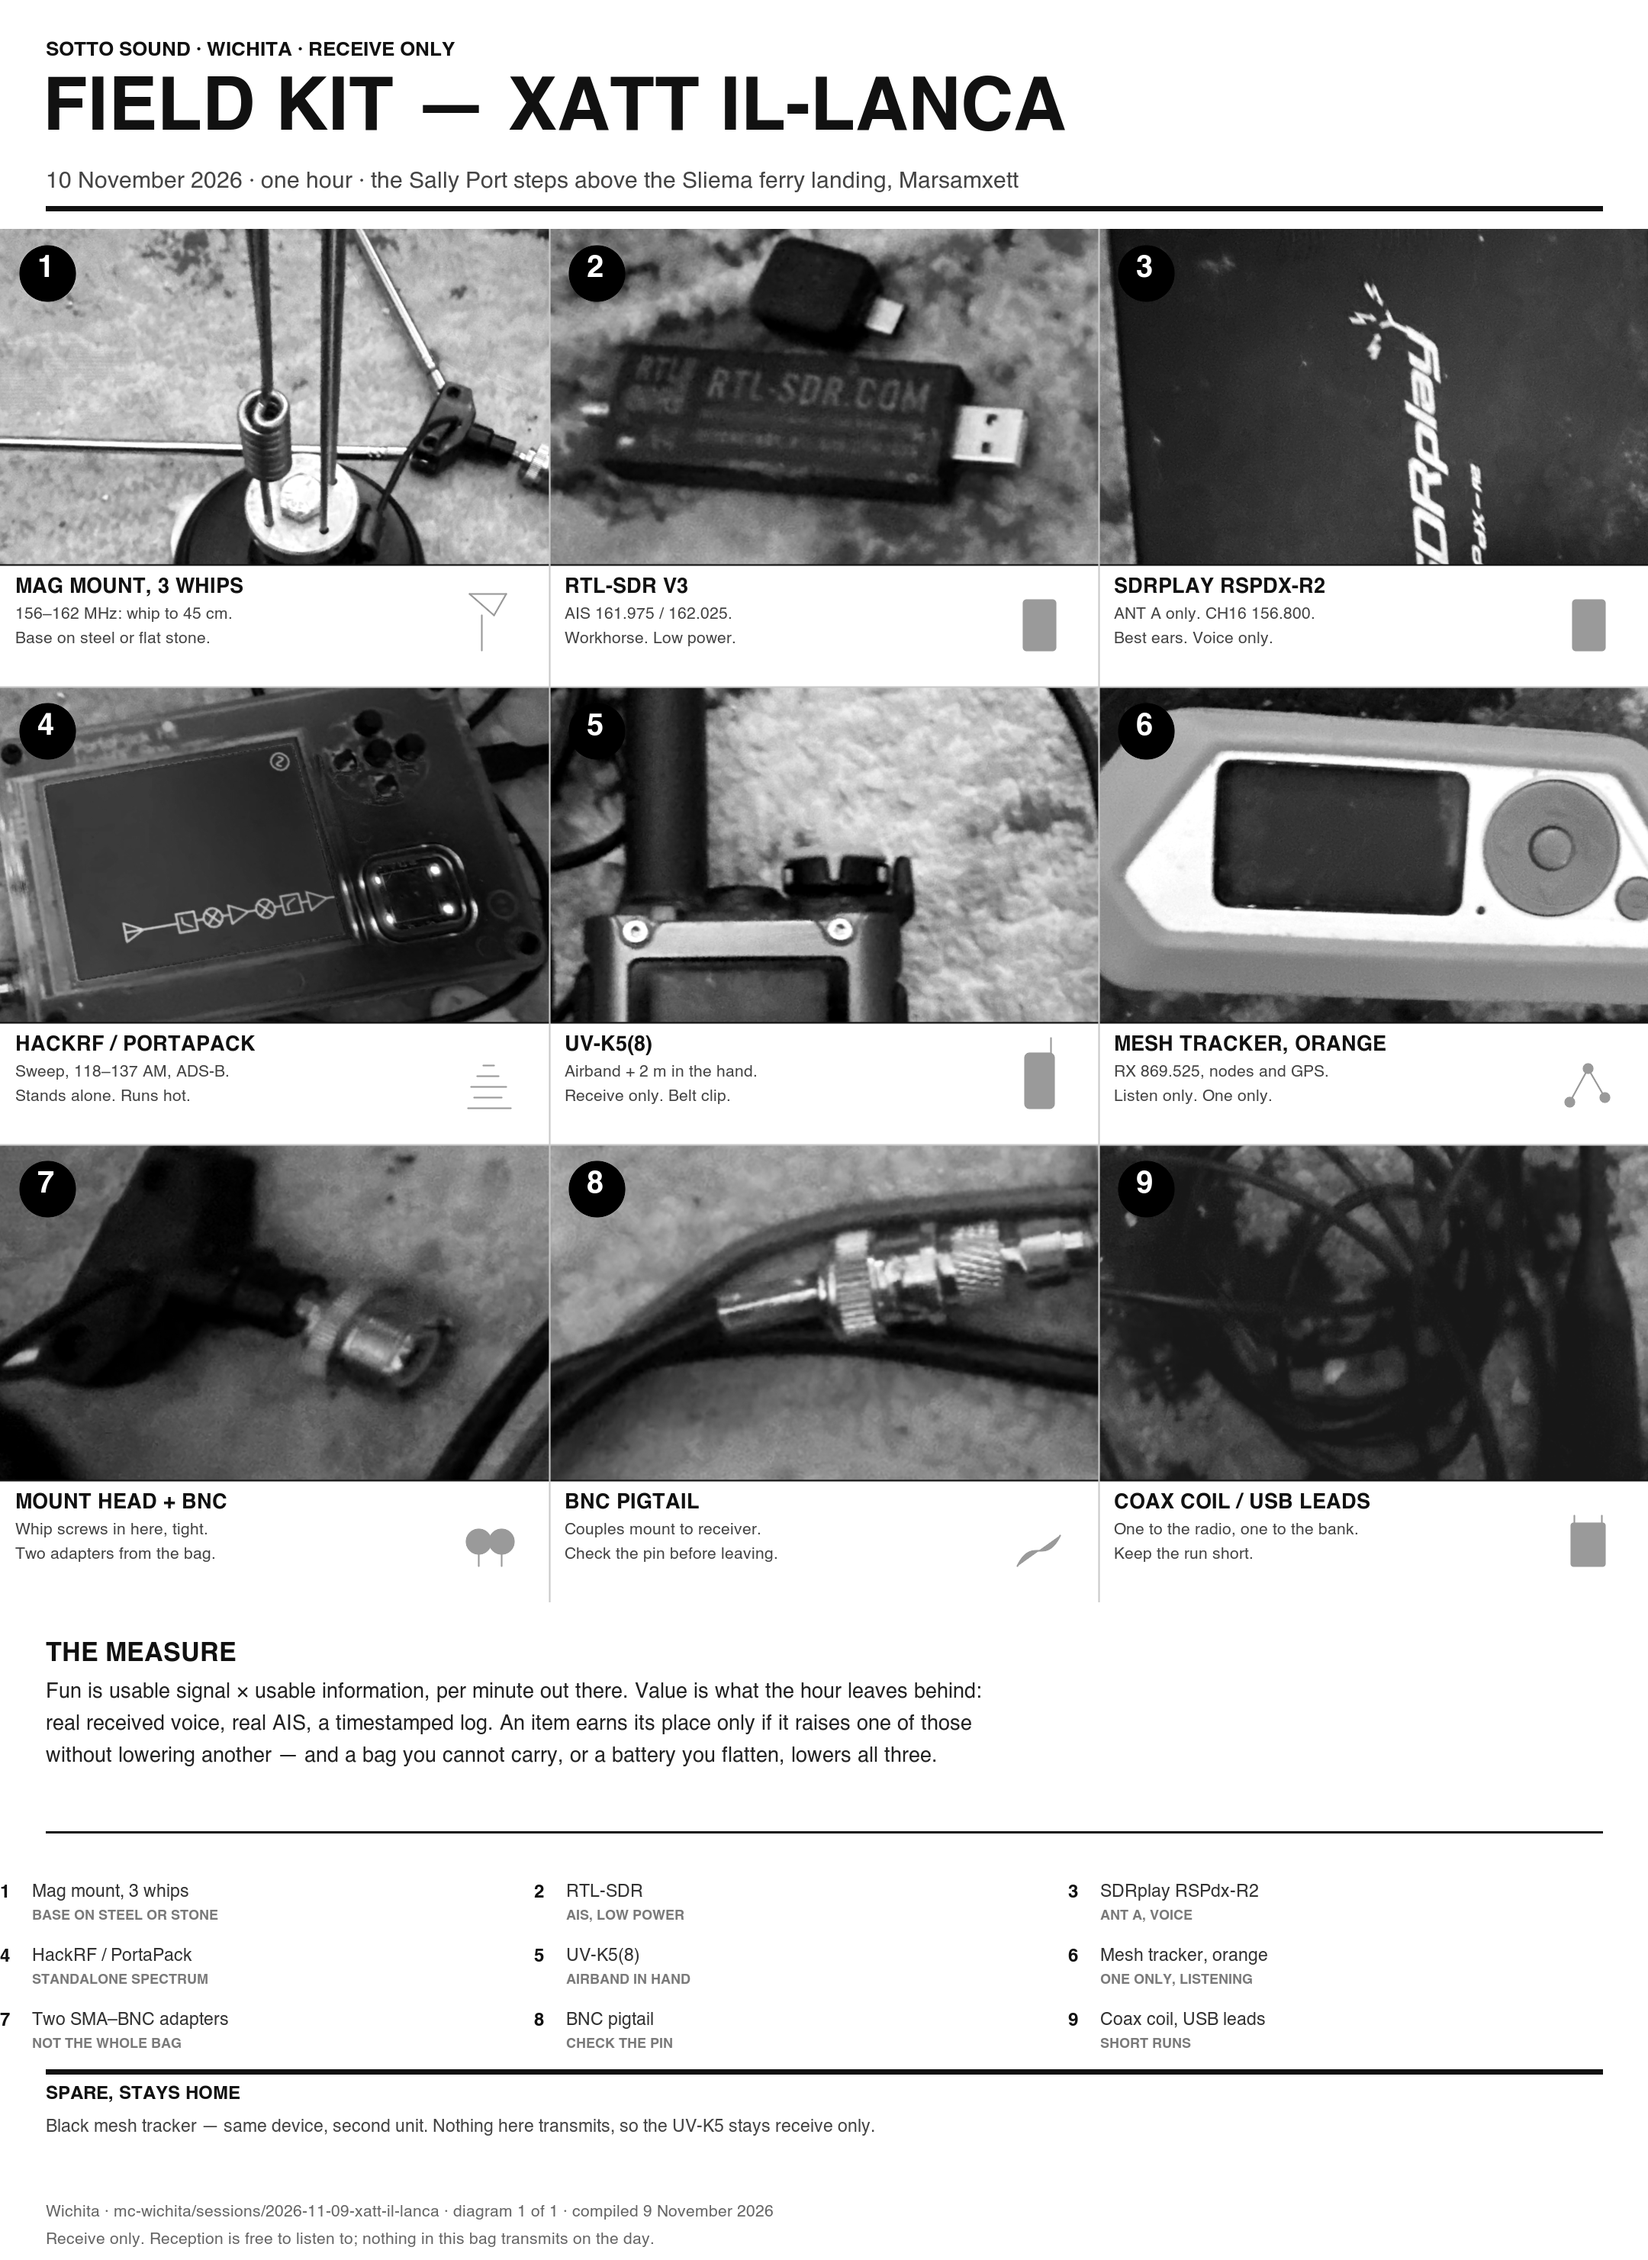
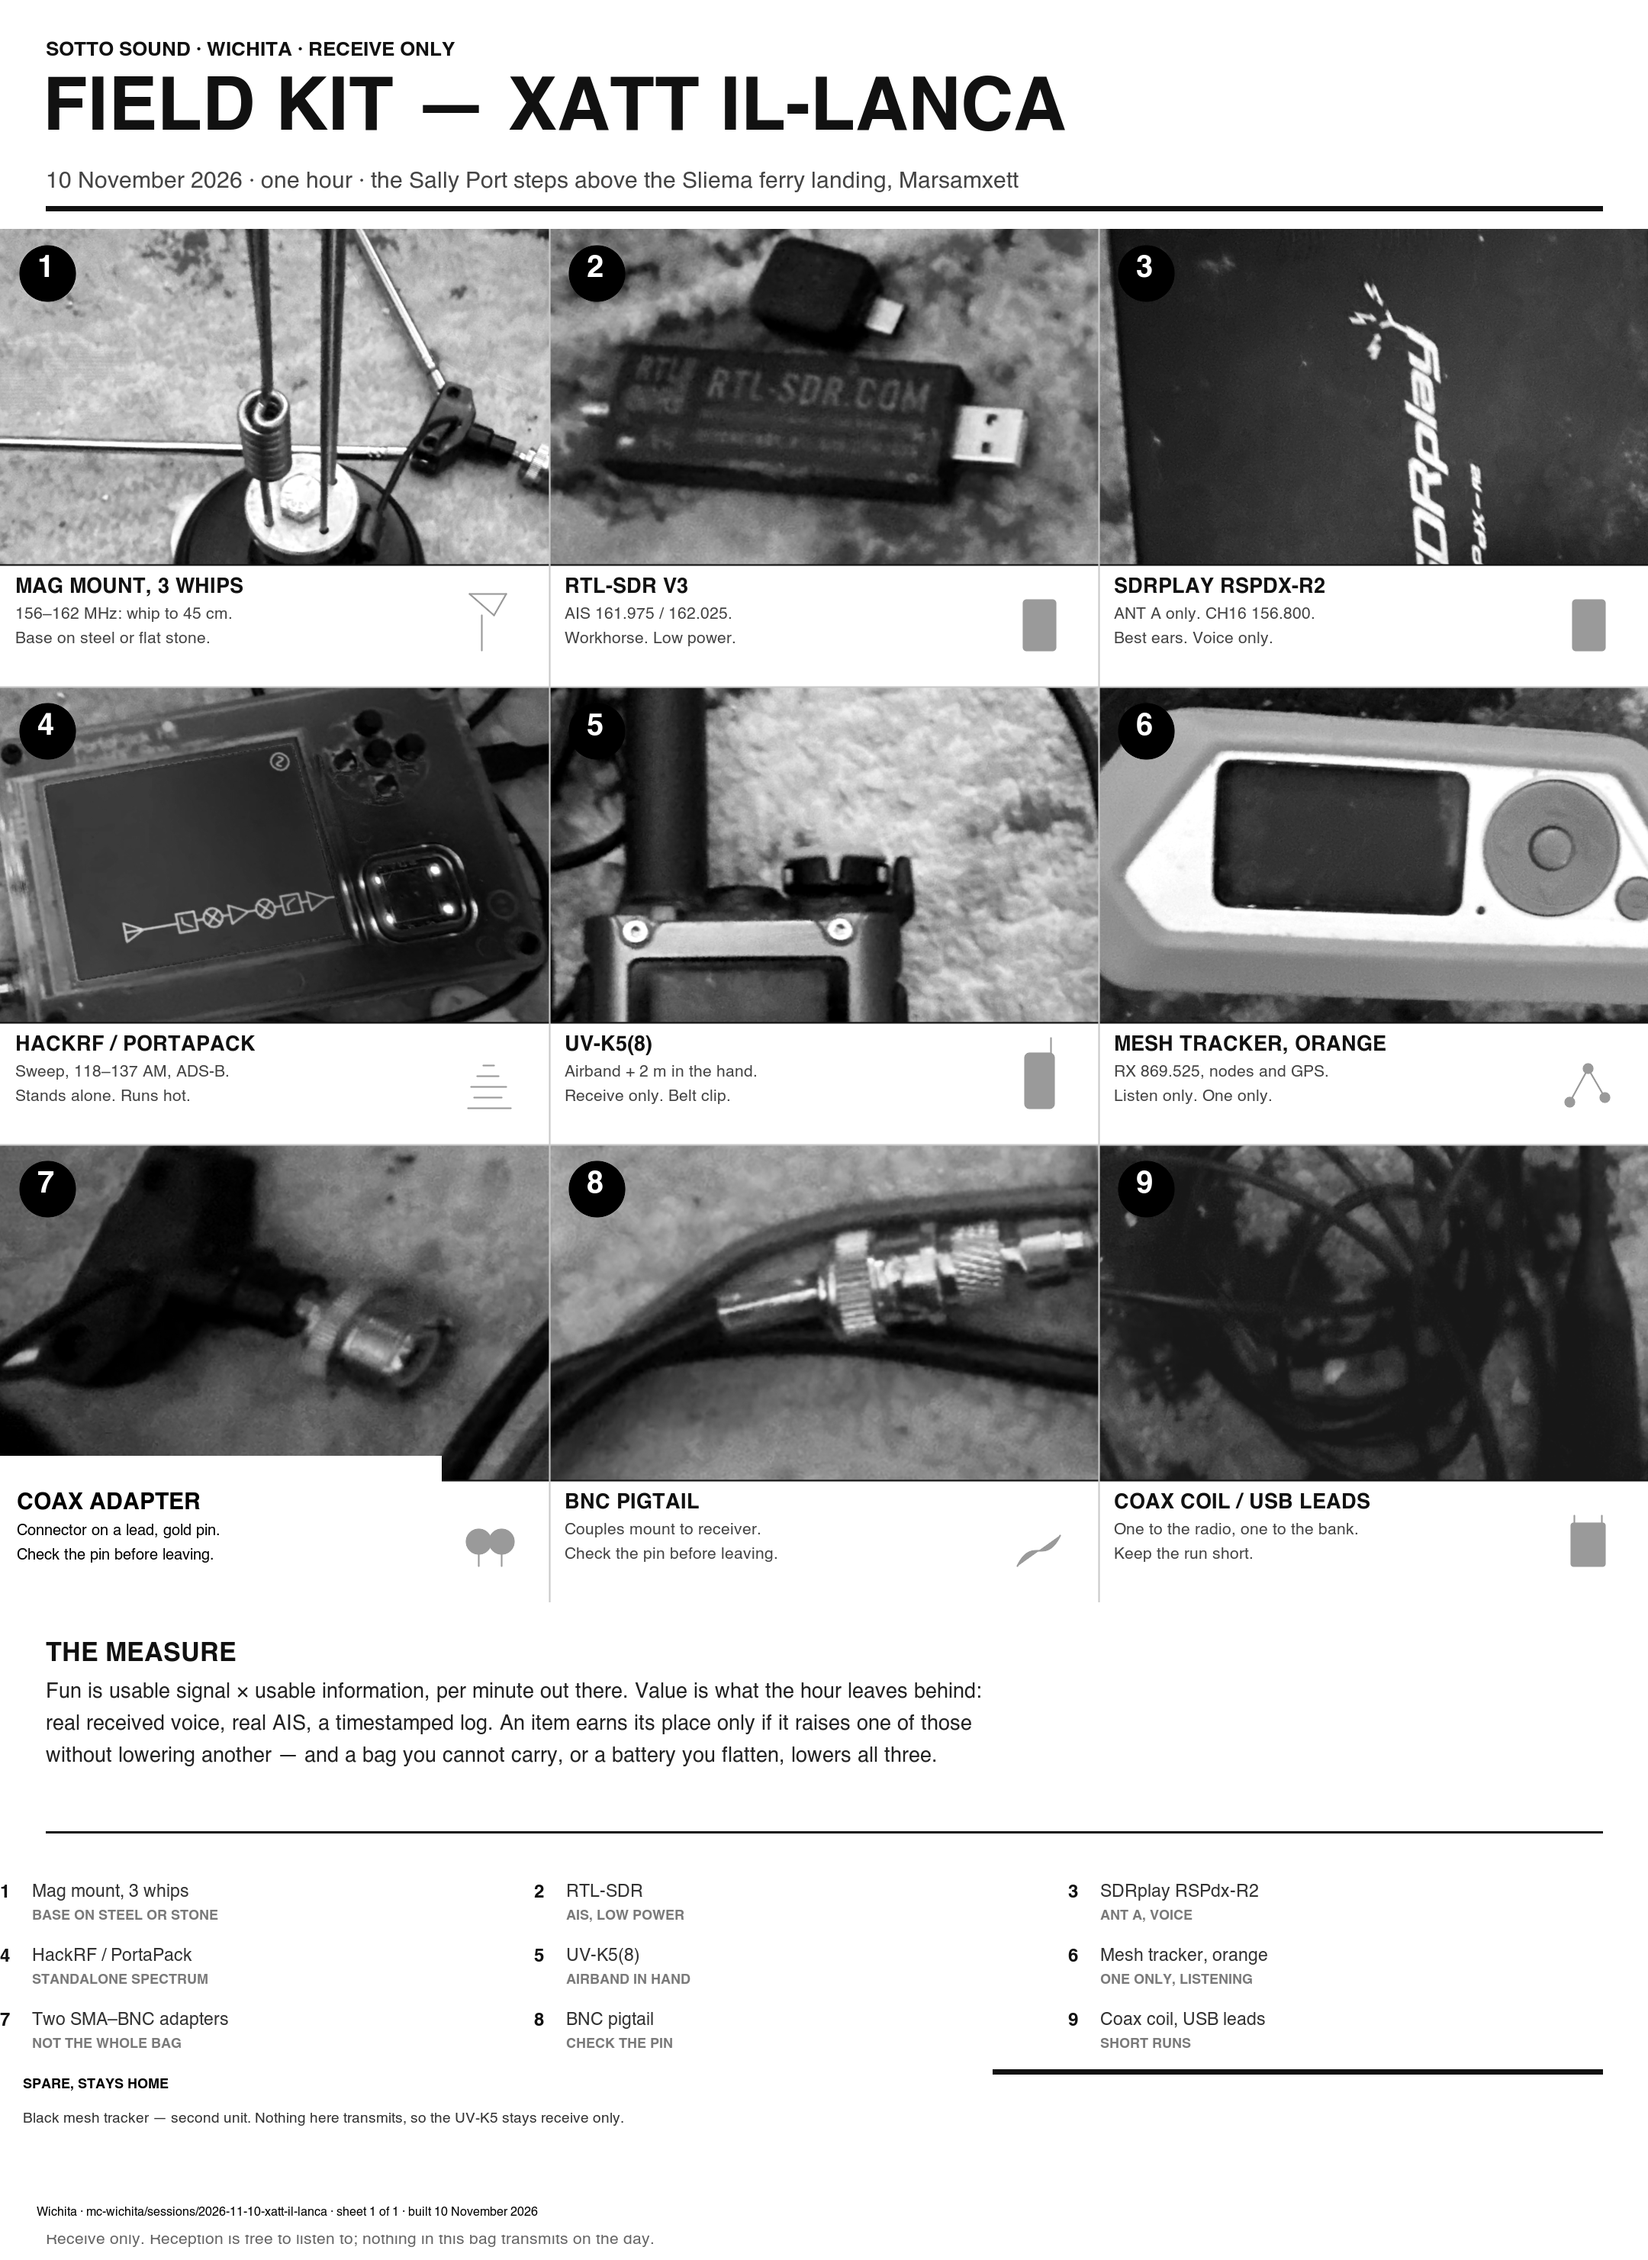
docs: fun-per-minute measure and front-load rule; plate fixes (coax adapter, footer path)

Changed region(s): [[0.031, 0.9007, 0.3722, 0.9939], [0.0, 0.6212, 0.2792, 0.6833]]

diff --git a/transcribe_by_language.py b/transcribe_by_language.py
@@ -1,0 +1,137 @@
+"""
+Transcribe a speech segment with the right model for its language.
+
+Voice path task 4 (openspec/changes/voice-path). No hardware.
+
+Routing, decided by measurement (see test_transcribe_by_language.py and the commit):
+1. Language ID with the general model (Whisper large-v3-turbo, multilingual).
+2. Maltese ("mt") goes to the mc-vuci Maltese fine-tune
+   (carlosdanielhernandezmena/whisper-large-maltese-8k-steps-64h-ct2, MASRI); everything else
+   is transcribed by the general model in the detected language.
+3. Nothing is dropped. A low language probability or a low average log-probability marks the
+   transcript unsure; the caller records it, tagged, via voice_record.
+
+Model paths come from env so the server and the Air can differ:
+  WICHITA_ASR_GENERAL  default: HF id mobiuslabsgmbh/faster-whisper-large-v3-turbo
+  WICHITA_ASR_MALTESE  default: ~/Documents/projects/mc-vuci/asr/model
+"""
+
+from __future__ import annotations
+
+import math
+import os
+from dataclasses import dataclass, asdict
+from functools import lru_cache
+from pathlib import Path
+from typing import Optional
+
+GENERAL_DEFAULT = "mobiuslabsgmbh/faster-whisper-large-v3-turbo"
+MALTESE_DEFAULT = str(Path("~/Documents/projects/mc-vuci/asr/model").expanduser())
+LANG_UNSURE_BELOW = 0.6
+LOGPROB_UNSURE_BELOW = -1.0  # mean avg_logprob over segments
+
+
+@dataclass
+class Transcript:
+    text: str
+    language: str
+    language_probability: float
+    model: str
+    avg_logprob: Optional[float]
+    unsure: bool
+    unsure_reasons: list
+
+    def confidence(self) -> float:
+        """0..1: language probability times exp(mean log-probability)."""
+        lp = math.exp(self.avg_logprob) if self.avg_logprob is not None else 0.0
+        return round(self.language_probability * lp, 3)
+
+    def as_dict(self) -> dict:
+        d = asdict(self)
+        d["confidence"] = self.confidence()
+        return d
+
+
+def general_model_path() -> str:
+    return os.environ.get("WICHITA_ASR_GENERAL", GENERAL_DEFAULT)
+
+
+def maltese_model_path() -> str:
+    return os.environ.get("WICHITA_ASR_MALTESE", MALTESE_DEFAULT)
+
+
+@lru_cache(maxsize=2)
+def _model(path: str):
+    from faster_whisper import WhisperModel
+
+    return WhisperModel(path, device="cpu", compute_type="int8")
+
+
+def detect_language(wav: str) -> tuple:
+    """(language, probability) from the general multilingual model."""
+    model = _model(general_model_path())
+    lang, prob, _all = model.detect_language(_load(wav))
+    return lang, float(prob)
+
+
+def _load(wav: str):
+    """16 kHz mono float32. soundfile + scipy, not faster_whisper.decode_audio (PyAV API drift)."""
+    from math import gcd
+
+    import numpy as np
+    import soundfile as sf
+    from scipy.signal import resample_poly
+
+    x, sr = sf.read(wav, always_2d=False)
+    if x.ndim > 1:
+        x = x.mean(axis=1)
+    if sr != 16000:
+        g = gcd(16000, int(sr))
+        x = resample_poly(x, 16000 // g, int(sr) // g)
+    return np.asarray(x, dtype=np.float32)
+
+
+def _run(model_path: str, wav: str, language: str):
+    model = _model(model_path)
+    segments, info = model.transcribe(_load(wav), language=language, beam_size=5,
+                                      vad_filter=False, condition_on_previous_text=False)
+    segs = list(segments)
+    text = " ".join(s.text.strip() for s in segs).strip()
+    lp = sum(s.avg_logprob for s in segs) / len(segs) if segs else None
+    return text, lp
+
+
+def transcribe(wav: str, language: Optional[str] = None) -> Transcript:
+    """Transcribe one segment. Pass language to skip detection (e.g. a channel known to be Maltese)."""
+    if language is None:
+        language, prob = detect_language(wav)
+    else:
+        prob = 1.0
+    path = maltese_model_path() if language == "mt" else general_model_path()
+    text, lp = _run(path, wav, language)
+
+    reasons = []
+    if prob < LANG_UNSURE_BELOW:
+        reasons.append(f"language_probability {prob:.2f} < {LANG_UNSURE_BELOW}")
+    if lp is None:
+        reasons.append("no segments decoded")
+    elif lp < LOGPROB_UNSURE_BELOW:
+        reasons.append(f"avg_logprob {lp:.2f} < {LOGPROB_UNSURE_BELOW}")
+    if not text:
+        reasons.append("empty transcript")
+    return Transcript(text=text, language=language, language_probability=round(prob, 3),
+                      model="maltese" if language == "mt" else "general",
+                      avg_logprob=round(lp, 3) if lp is not None else None,
+                      unsure=bool(reasons), unsure_reasons=reasons)
+
+
+if __name__ == "__main__":
+    import argparse
+    import json
+
+    ap = argparse.ArgumentParser(description="Transcribe WAV segments by language.")
+    ap.add_argument("wav", nargs="+")
+    ap.add_argument("--language")
+    a = ap.parse_args()
+    for w in a.wav:
+        print(json.dumps({"file": w, **transcribe(w, a.language).as_dict()}, ensure_ascii=False))

diff --git a/docs/fun-per-minute.md b/docs/fun-per-minute.md
@@ -1,0 +1,51 @@
+# The measure: fun per minute
+
+Mattie's definition of fun for an outdoor listening hour, settled 9 November 2026, and the rule
+that follows from it. It applies to every future field session, not just this one.
+
+> **Fun is usable signal × usable information, per minute out there, minus the attention it takes.**
+> **Value is that rate times what the hour still leaves behind when you walk home.**
+
+The unit is *meaningful signal received per minute*. Front-loading is the same rule applied to the
+clock: the highest rate goes at the start, while the hour still has room, and the low-rate items fill
+the tail or stay home.
+
+## How the ranking is scored
+
+Each item is scored on four things, and the fourth divides the other three:
+
+| Term | Meaning |
+|---|---|
+| Signal | Does it hear anything here, on this antenna, at this spot |
+| Information | Can that signal be turned into something usable: a name, a position, a voice, a timestamp |
+| Attention | Hands, apps, cables, heat, or swapping an antenna mid-hour |
+| What it leaves behind | Audio, NMEA, raw JSON, or nothing |
+
+A burst you cannot decode is noise with a shape. An item that costs an antenna swap costs two items.
+An item that flattens the battery at minute 40 costs the whole tail.
+
+## The order this produced for 10 Nov
+
+1. **AIS on the RTL-SDR** — very high signal, very high information, almost no attention. The spine.
+2. **Marine voice on CH16 in SDR++** — high signal, high information, some attention. The prize.
+3. **UV-K5 airband in the hand** — high signal, low information, no setup. Free while the other two run.
+4. **PortaPack sweep** — high signal, low information unless decoding, high attention and heat. One
+   ten-minute slot, not continuous.
+5. **SMA–BNC pigtail and adapters** — no signal of their own. They unlock 1 and 2, so they rank by what
+   they enable rather than by rate.
+6. **Flipper on 433.92** — low signal at a quay, low information, low attention. The walk back.
+7. **Mesh tracker on 869.525** — usually zero on both. Comes because it costs nothing.
+
+## Front-loading, applied
+
+- Minutes 5–30 are the two highest-rate items and nothing else. No device fiddling in the best light.
+- Minutes 30–40 are the single high-attention item, bounded, while the recorder keeps running.
+- Minutes 40–50 are the pocket toys, walked rather than sat over.
+- The hour is not saved for "something better later". Anything not started by minute 40 does not run.
+
+## Why it is written down
+
+Because the temptation at the steps is to do the five interesting things at once, and at once is how
+you get a bag of half-finished captures and no usable voice. The measure is also the tie-break for
+what to buy, build, or bring next: an item that lifts information per minute without lifting attention
+beats one that only lifts novelty.

diff --git a/sessions/2026-11-10-xatt-il-lanca/README.md b/sessions/2026-11-10-xatt-il-lanca/README.md
@@ -1,7 +1,7 @@
 # Session 2026-11-10 — Xatt il-Lanca, Marsamxett
 
 One hour, tomorrow afternoon, on foot. Receive-only.
-Plate: kit-plate.png (numbers match this list). Spectrum: spectrum-card.md. Software wants: docs/notes/rf-software-wants.md.
+Plate: kit-plate.png (numbers match legend.md). Measure and front-load rule: docs/fun-per-minute.md. Spectrum: spectrum-card.md. Software wants: docs/notes/rf-software-wants.md.
 Spot: the Sally Port steps above the Sliema ferry landing, Xatt il-Lanca. Route down
 Triq San Nikola past Sally Port Pizzeria (102), across the ferry crossing.
 
@@ -36,10 +36,8 @@ on a railing or the stone, whip upright at ~45 cm, clear of the wall. Earbuds in
 on the SDRplay, ANT A: 156.800 FM, squelch just over the noise, recorder on.
 **10–30** Work the harbour. Every distinct vessel that appears on AIS: note the time, name,
 type. Every voice on 16: note time, who, what. Do not stop to edit anything.
-**30–40** PortaPack: spectrum sweep 150–170, then 118–137 AM, against section B of the spectrum card so bursts are named not chased.
-then 118–137 AM for approach and tower. Note what is there, not what it says.
-**40–50** CH09 156.450, then CH12 156.600 on the SDRplay, still recording. UV-K5 to airband. Flipper on 433.92 with `./sea-watch.sh ism` on the RTL for ten minutes. Wio Tracker listening.
-slow scan. Flipper on 433.92, Read RAW, ten metres of the shore road and back. Wio Tracker listening.
+**30–40** PortaPack: spectrum sweep 150–170, then 118–137 AM for approach and tower, against section B of the spectrum card so bursts are named not chased. Note what is there, not what it says.
+**40–50** CH09 156.450, then CH12 156.600 on the SDRplay, still recording. UV-K5 to airband slow scan. Flipper on 433.92 with `./sea-watch.sh ism` on the RTL for ten minutes, ten metres of the shore road and back. Wio Tracker listening.
 **50–60** Pack, note the totals, walk back up before the light goes.
 
 ## Rules for the hour

diff --git a/sessions/2026-11-10-xatt-il-lanca/legend.md b/sessions/2026-11-10-xatt-il-lanca/legend.md
@@ -9,8 +9,8 @@ Number for number. Correct any line that is wrong; 3, 5 and 7 rest on a photogra
 | 3 | SDRplay RSPdx-R2 | High — label legible | Marine voice, ANT A, CH16 then CH09/12 | Pack |
 | 4 | HackRF in a PortaPack | High — clear case, PortaPack screen | Spectrum sweep, 118–137 AM, ADS-B, standalone | Pack |
 | 5 | Quansheng UV-K5(8) | High — M / Quansheng buttons, keypad | Airband and 2 m by hand | Pack |
-| 6 | Mesh tracker, orange case | Medium — same shell as the black one, screen and single button | Meshtastic RX on 869.525, listen only | One only |
-| 7 | Mount head with BNC | Medium — photographed beside the whip base | Where the whip screws in; two adapters from the bag | Take two adapters |
+| 6 | Mesh tracker, orange case | Low — different shell from the black one: hexagonal, single large button, no stub antenna | Meshtastic RX 869.525, listen only | One only |
+| 7 | Coax adapter / connector on a lead | Medium — gold pin, knurled coupling nut; the mount already carries its own hub and spring | Couples mount to receiver | Pack |
 | 8 | BNC–SMA pigtail | High — unmistakable | Couples mount to receiver | Pack |
 | 9 | Coax coil and USB leads | High | Feeds the receiver and the power bank | Pack |
 
@@ -20,5 +20,5 @@ Number for number. Correct any line that is wrong; 3, 5 and 7 rest on a photogra
 - Nothing here transmits on the day.
 
 ## Uncertain, needs Mattie
-- 6: is the orange device the same tracker as the black one, or something else?
-- 7: is that the mag-mount head, or a separate adaptor?
+- 6: the orange device is not the same shell as the black tracker — is it a second tracker of another model, or something else altogether?
+- 7: labelled a connector, not the mount head. Which adaptor is it, and does it match the pigtail at 8?
